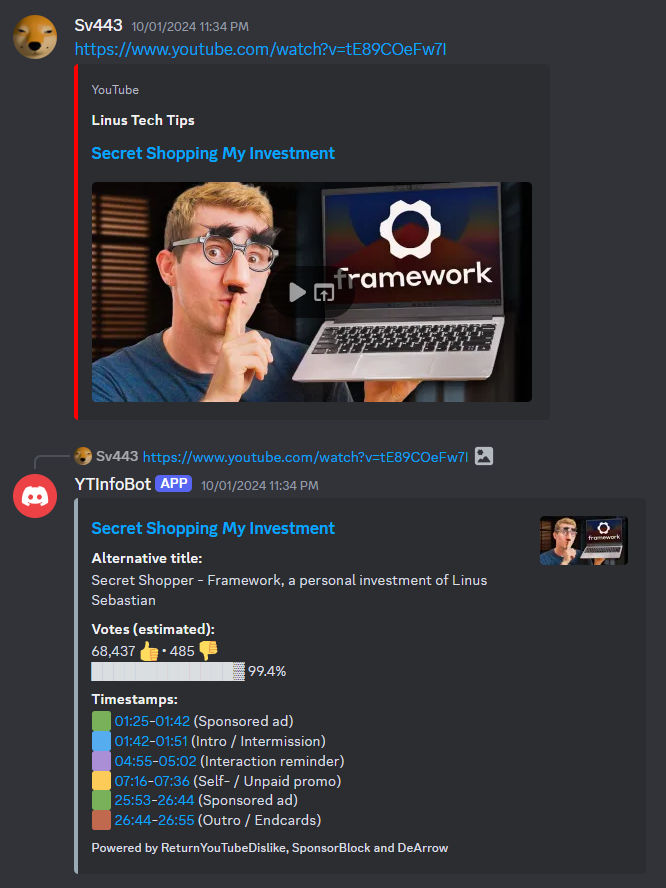
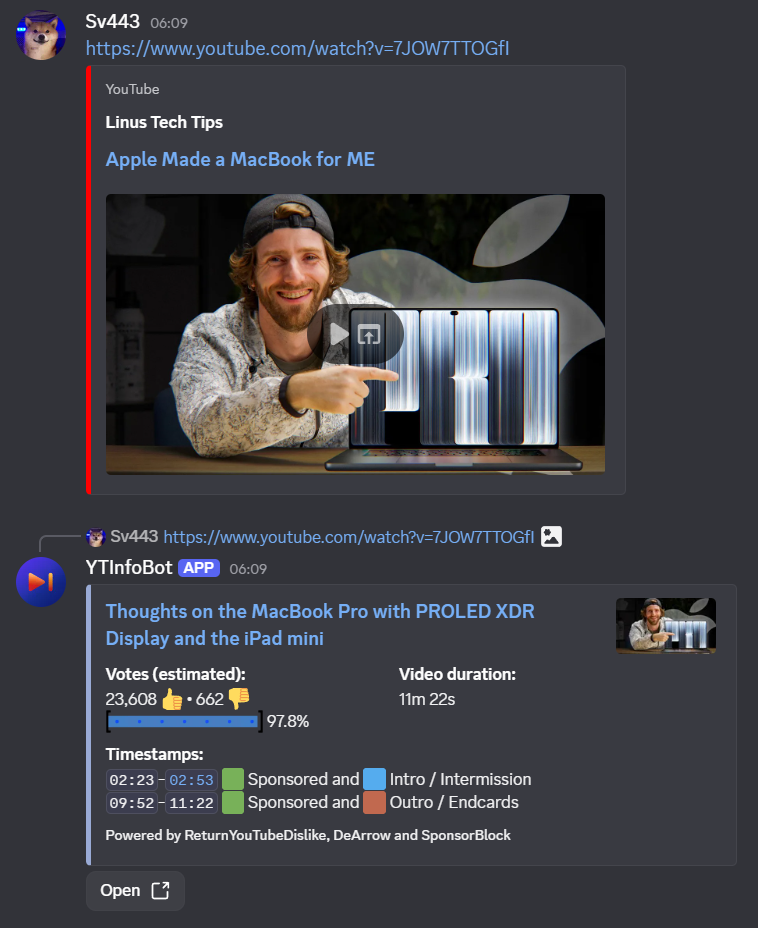
feat: update screenshots

Changed region(s): [[0.0, 0.0, 0.8108, 0.973], [0.8108, 0.5777, 0.961, 0.7297], [0.5105, 0.6993, 0.6907, 0.7601]]

diff --git a/README.md b/README.md
@@ -16,7 +16,13 @@ Since the bot is free to use, I rely on donations to keep it running and maintai
 
 <br><br>
 
-<img alt="Example 1; showing the bot's automatic reply" src="./src/assets/example1.png" width="375" /> <img alt="Example 2; showing the bot configuration process" src="./src/assets/example2.png" width="375" />
+<div style="display: flex;align-items: center;justify-content: center;text-align: center;" align="center">
+
+<img alt="Example 1; showing the bot's automatic reply" src="./src/assets/example1.png" width="375" />
+<img src="./src/assets/example_separator.png" width="20" />
+<img alt="Example 2; showing the bot configuration process" src="./src/assets/example2.png" width="375" />
+
+</div>
 
 </div>
 
